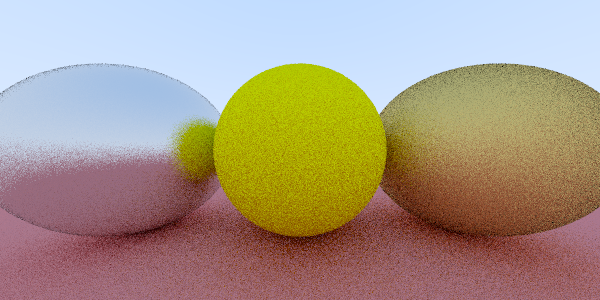
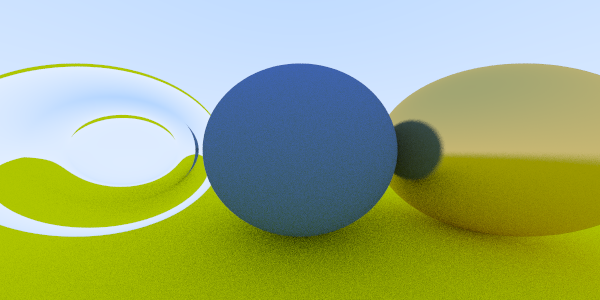
fix up some bugs from old version of the book

diff --git a/src/main.rs b/src/main.rs
@@ -27,12 +27,18 @@ impl Ray {
 struct HitRecord {
     t: f32,
     point: Vec3,
-    normal: Vec3
+    normal: Vec3,
+    front_face: bool
 }
 
 impl HitRecord {
     fn new() -> HitRecord {
-        HitRecord { t: 0.0, point: vec3![0.0, 0.0, 0.0], normal: vec3![0.0, 0.0, 0.0]}
+        HitRecord { t: 0.0, point: vec3![0.0, 0.0, 0.0], normal: vec3![0.0, 0.0, 0.0], front_face: false}
+    }
+    
+    fn set_face_and_normal(&mut self, r: Ray, outward_normal: Vec3) {
+        self.front_face = dot(r.direction, outward_normal) < 0.0;
+        self.normal = if self.front_face { outward_normal } else { -outward_normal };
     }
 }
 
@@ -68,7 +74,8 @@ impl Hitable for Sphere {
             if was_hit {
                 out_hit.t = hit_t;
                 out_hit.point = ray.at(hit_t);
-                out_hit.normal = (out_hit.point - self.center) / self.radius;
+                let outward_normal = (out_hit.point - self.center) / self.radius;
+                out_hit.set_face_and_normal(ray, outward_normal);
                 return true;    
             }
         }
@@ -85,20 +92,27 @@ struct Camera {
 }
 
 impl Camera {
-    fn get_ray(&self, u: f32, v: f32) -> Ray {
-        Ray::new(self.eye_origin, self.lower_left + u * self.x_extent + v * self.y_extent)
-    }
-}
+    fn new() -> Camera {
+        let aspect_ratio = 16.0 / 9.0;
+        let viewport_height = 2.0;
+        let viewport_width = aspect_ratio * viewport_height;
+        let focal_length = 1.0;
 
-/// Returns a random point within a unit-radius sphere.
-fn rand_in_unit_sphere() -> Vec3 {
-    let mut p : Vec3;
-    let v_ones = vec3![1.0, 1.0, 1.0]; 
-    loop {
-        p = 2.0 * vec3![rand::random(), rand::random(), rand::random()] - v_ones;
-        if length_sq(p) < 1.0 { break; }
+        let origin = Vec3::zero();
+        let horizontal = vec3![viewport_width, 0.0, 0.0];
+        let vertical = vec3![0.0, viewport_height, 0.0];
+
+        Camera {
+            eye_origin: origin,
+            lower_left: origin - horizontal / 2.0 - vertical / 2.0 - vec3![0.0, 0.0, focal_length],
+            x_extent: horizontal,
+            y_extent: vertical
+        }
     }
-    p
+
+    fn get_ray(&self, u: f32, v: f32) -> Ray {
+        Ray::new(self.eye_origin, self.lower_left + u * self.x_extent + v * self.y_extent - self.eye_origin)
+    }
 }
 
 fn hit_spheres(spheres: &[Sphere], ray: Ray, t_min: f32, t_max: f32, out_hit: &mut HitRecord, hit_id: &mut usize) -> bool {
@@ -122,16 +136,16 @@ fn get_sky_color(r: Ray) -> Vec3 {
     (1.0 - t) * vec3![1.0, 1.0, 1.0] + t * vec3![0.5, 0.7, 1.0]    
 }
 
-fn sample_color(r: Ray, world: &World, bounces: u32) -> Vec3 {
+fn sample_color(r: Ray, world: &World, bounces: i32) -> Vec3 {
     let mut hit = HitRecord::new();
     let mut hit_id = 0;
 
     if hit_spheres(&world.objects, r, 0.001, f32::MAX, &mut hit, &mut hit_id) {
         hit.normal = normalized(hit.normal); // The book makes a point about unit length normals but then doesnt enforce it.
-        if bounces < 50 {
-            let (did_hit, attenuation, scattered) = world.materials[hit_id].scatter(&r, &hit);
-            if did_hit {
-                return attenuation * sample_color(scattered, &world, bounces + 1);
+        if bounces > 0 {
+            let (did_bounce, attenuation, scattered) = world.materials[hit_id].scatter(&r, &hit);
+            if did_bounce {
+                return attenuation * sample_color(scattered, &world, bounces - 1);
             }
         }
         Vec3::zero()
@@ -160,7 +174,7 @@ impl RGBImage {
     }
 }
 
-trait Material {
+trait Scattering {
     /// Returns a triplet of (did_hit, attenutation, scattered_ray).
     fn scatter(&self, r: &Ray, hit: &HitRecord) -> (bool, Vec3, Ray);
 }
@@ -169,10 +183,14 @@ struct Lambert {
     albedo: Vec3
 }
 
-impl Material for Lambert {
+impl Scattering for Lambert {
     fn scatter(&self, _r: &Ray, hit: &HitRecord) -> (bool, Vec3, Ray) {
-        let target = hit.point + hit.normal + rand_in_unit_sphere();
-        let scattered = Ray::new(hit.point, target - hit.point);
+        let mut scatter_dir = hit.normal + rand_unit_vector();
+        if scatter_dir.is_near_zero() {
+            scatter_dir = hit.normal;
+        }
+
+        let scattered = Ray::new(hit.point, scatter_dir);
         let attenuation = self.albedo;
         (true, attenuation, scattered)
     }
@@ -183,62 +201,81 @@ struct Metal {
     roughness: f32 
 }
 
-impl Material for Metal {
+impl Metal {
+    fn new(albedo: Vec3, roughness: f32) -> Metal {
+        Metal { albedo, roughness: roughness.min(1.0) }
+    }
+}
+
+impl Scattering for Metal {
     fn scatter(&self, r: &Ray, hit: &HitRecord,) -> (bool, Vec3, Ray) {
         let reflected = reflect(normalized(r.direction), hit.normal);
         let scattered = Ray::new(hit.point, reflected + self.roughness * rand_in_unit_sphere());
         let attenuation = self.albedo;
-        let did_hit = dot(scattered.direction, hit.normal) > 0.0;
-        (did_hit, attenuation, scattered)
+        let did_bounce = dot(scattered.direction, hit.normal) > 0.0;
+        (did_bounce, attenuation, scattered)
     }
 }
 
-enum MaterialType {
-    Lambert(Lambert),
-    Metal(Metal)
+struct Dielectric {
+    idx_of_refraction : f32
 }
 
-impl Material for MaterialType {
+impl Scattering for Dielectric {
+    fn scatter(&self, r: &Ray, hit: &HitRecord) -> (bool, Vec3, Ray) {
+        let hit_front_face = false; // TODO(): our version doesnt have this feature yet.
+        let refraction_ratio = if hit_front_face {1.0 / self.idx_of_refraction} else { self.idx_of_refraction };
+        
+        let unit_dir = normalized(r.direction);
+        let refacted = refract(unit_dir, hit.normal, refraction_ratio);
+
+        (true, vec3![1.0], Ray::new(hit.point, refacted))
+    }
+}
+
+enum Material {
+    Lambert(Lambert),
+    Metal(Metal),
+    Dielectric(Dielectric),
+}
+
+impl Scattering for Material {
     fn scatter(&self, r: &Ray, hit: &HitRecord) -> (bool, Vec3, Ray) {
         match self {
-            MaterialType::Lambert(mat) => mat.scatter(r, hit),
-            MaterialType::Metal(mat) => mat.scatter(r, hit),
+            Material::Lambert(mat) => mat.scatter(r, hit),
+            Material::Metal(mat) => mat.scatter(r, hit),
+            Material::Dielectric(mat) => mat.scatter(r, hit),
         }
     }
 }
 
 struct World {
     objects: Vec<Sphere>,
-    materials: Vec<MaterialType>
+    materials: Vec<Material>
 }
 
 fn main() {
     let mut image = RGBImage::new(600, 300);
 
-    let cam = Camera { 
-        eye_origin: vec3![0.0, 0.0, 0.0],
-        lower_left: vec3![-2.0, -1.0, -1.0],
-        x_extent: vec3![4.0, 0.0, 0.0],
-        y_extent: vec3![0.0, 2.0, 0.0]  
-    };
+    let cam = Camera::new();
 
     let sphere_1 = Sphere {center: vec3![0.0, 0.0, -1.0], radius: 0.5};
     let sphere_2 = Sphere {center: vec3![0.0, -100.5, -1.0], radius: 100.0};
     let sphere_3 = Sphere {center: vec3![1.0, 0.0, -1.0], radius: 0.5};
     let sphere_4 = Sphere {center: vec3![-1.0, 0.0, -1.0], radius: 0.5};
 
-    let mat_1 = Lambert { albedo: vec3![0.8, 0.3, 0.3] };
+    let mat_1 = Lambert { albedo: vec3![0.1, 0.2, 0.5] };
     let mat_2 = Lambert { albedo: vec3![0.8, 0.8, 0.0] };
-    let mat_3 = Metal { albedo: vec3![0.8, 0.6, 0.2], roughness: 1.0 };
-    let mat_4 = Metal { albedo: vec3![0.8, 0.8, 0.8], roughness: 0.3 };
+    let mat_3 = Metal::new(vec3![0.8, 0.6, 0.2], 0.1);
+    let mat_4 = Dielectric { idx_of_refraction: 1.5 };
 
     let mut world = World { objects: vec![], materials: vec![] };
     world.objects = vec![sphere_1, sphere_2, sphere_3, sphere_4];
     world.materials = vec![
-        MaterialType::Lambert(mat_2), 
-        MaterialType::Lambert(mat_1), 
-        MaterialType::Metal(mat_3), 
-        MaterialType::Metal(mat_4)];
+        Material::Lambert(mat_1), 
+        Material::Lambert(mat_2), 
+        Material::Metal(mat_3), 
+        Material::Dielectric(mat_4)];
 
     let sample_count = 8;
 
@@ -250,12 +287,14 @@ fn main() {
                 let u = (col as f32 + u_s) / image.width as f32;
                 let v = 1.0 - ((row as f32 + v_s) / image.height as f32); // Invert y to align with output from the book.
                 let r = cam.get_ray(u, v);
-                color += sample_color(r, &world, 0);
+                color += sample_color(r, &world, 50);
             }
             
-            color /= sample_count as f32; // Average over samples.
-            color = vec3![color.x.sqrt(), color.y.sqrt(), color.z.sqrt()]; // Gamma2 correct.
-            color *= 255.99; // Move to range 0 <-> 255.
+            color *= 1.0 / sample_count as f32; // Average over samples            
+            color.x = 256.0 * clamp(color.x.sqrt(), 0.0, 0.999); // Gamma2 correct and move to range 0 <-> 255.
+            color.y = 256.0 * clamp(color.y.sqrt(), 0.0, 0.999);
+            color.z = 256.0 * clamp(color.z.sqrt(), 0.0, 0.999);
+            
             image.set_pixel(row, col, color);
         }
     }

diff --git a/src/math.rs b/src/math.rs
@@ -1,5 +1,11 @@
 // math.rs: Provides functionality for solving linear algebra problems. 
 
+pub fn clamp(x: f32, min: f32, max: f32) -> f32 {
+    if x < min { return min; }
+    if x > max { return max; }
+    x
+}
+
 #[derive(Clone, Copy, PartialEq, Debug)]
 pub struct Vec3 {
     pub x : f32,
@@ -11,12 +17,21 @@ impl Vec3 {
     pub fn zero() -> Vec3 {
         Vec3{ x: 0.0, y: 0.0, z: 0.0}
     }
+
+    pub fn is_near_zero(&self) -> bool {
+        let eps = 1.0e-8;
+        (self.x.abs() < eps) && (self.y.abs() < eps) && (self.z.abs() < eps) 
+    }
 }
 
 #[macro_export]
 macro_rules! vec3 {
     ($x: expr, $y: expr, $z: expr ) => {
         Vec3 { x: $x, y: $y, z: $z}
+    };
+
+    ($replicate: expr) => {
+        Vec3 {x: $replicate, y: $replicate, z: $replicate}
     };
 }
 
@@ -127,6 +142,37 @@ pub fn cross(a: Vec3, b: Vec3) -> Vec3 {
 
 pub fn reflect(v: Vec3, n: Vec3) -> Vec3 {
     v - 2.0 * dot(v,n) * n
+}
+
+pub fn refract(v: Vec3, n: Vec3, ni_over_nt: f32) -> Vec3 {
+    let cos_theta = f32::min(dot(-v, n), 1.0);
+    let r_out_perp = ni_over_nt * (v + cos_theta * n);
+    let r_out_para = n * -((1.0 - length_sq(r_out_perp)).abs().sqrt());
+    r_out_perp + r_out_para
+}
+
+pub fn rand_in_range(min: f32, max: f32) -> f32 {
+    let n_0_to_1 : f32 = rand::random();
+    min + n_0_to_1 * (max - min)
+}
+
+/// Returns a random point within a unit-radius sphere.
+pub fn rand_in_unit_sphere() -> Vec3 {
+    loop {
+        let p = vec3![rand_in_range(-1.0, 1.0), rand_in_range(-1.0, 1.0), rand_in_range(-1.0, 1.0)];
+        if length_sq(p) < 1.0 { return p };
+    }
+}
+
+pub fn rand_unit_vector() -> Vec3 {
+    normalized(rand_in_unit_sphere())
+}
+
+pub fn rand_in_unit_disk() -> Vec3 {
+    loop {
+        let p = vec3![rand_in_range(-1.0, 1.0), rand_in_range(-1.0, 1.0), 0.0];
+        if dot(p, p) < 1.0 { return p };
+    }
 }
 
 #[cfg(test)]
